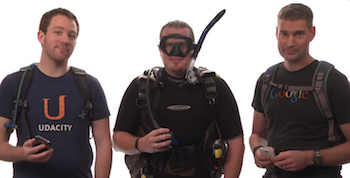
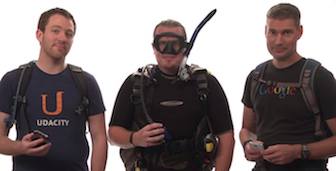
minor optimizations to images.

diff --git a/views/pizza.html b/views/pizza.html
@@ -1,1 +1,144 @@
-<!DOCTYPE HTML><html><head><link rel="stylesheet" href="css/style.css"><link rel="stylesheet" href="css/bootstrap-grid.css"></head><body><div class="container"><div id="header" class="row"><div class="col-md-6"><div class="row"><div class="col-md-12"><h1>Cam's Pizzeria</h1><div class="row"><div id="menu" class="col-md-12"><form action="#randomPizzas"><input type="submit" value="Menu"></form><form action="#ingredients"><input type="submit" value="Our Ingredients"></form><form action="#locations"><input type="submit" value="Locations"></form><form action="#" onsubmit="alert('Thanks for clicking! This button doesn\'t do anything because this is a fake pizzeria :\)')"><input type="submit" value="Contact Us"></form></div></div></div></div></div><div id="movingPizzas1" class="col-md-6"></div></div><div id="callToAction" class="row"><div class="col-md-4"><img src="images/pizzeria.jpg" class="img-responsive"><!-- Image credit to: http://commons.wikimedia.org/wiki/File:HK_TST_night_%E5%98%89%E8%98%AD%E9%81%93_Granville_Road_restaurant_Paisano's_Pizzeria_pizza_Dec-2013.JPG --></div><div class="col-md-8"><div class="row"><div class="col-md-12"><h2>We Have Hundreds of Pizza Recipes!</h2><p>At Cam's Pizzeria, we know you want options. Pepperoni? Boring. Cheese? No way! Sausage? C'mon, let's get creative.</p><p>We have every pizza ingredient imaginable in our kitchen because we know you take choice seriously. Take a look through our menu of hundreds of pizza options and we know that you'll find something you love.</p></div></div><div class="row"><div class="col-md-6 col-md-push-3"><form action="#randomPizzas"><input type="submit" value="Pick a Pizza Now!"></form></div></div></div></div><div id="ingredients" class="row"><div class="col-md-8 col-md-push-2"><div class="row"><div class="col-md-12 centered"><h2>Ingredients!</h2></div></div><div class="row"><div class="col-md-12"><p>We've scoured the planet for the best pizza ingredients. Our crack team of ingredient specialists are on constant lookout for new and interesting pizza ingredients.</p><p>We have classic meats like pepperoni, sausage, and barbecue chicken. But you can find even more fun meats like coppa, kielbasa and soylent green on our menu too.</p><p>Not interested in meat? No problem! We love our veggies too :) We have everything from arugula to zucchini.</p></div></div></div></div><div id="locations" class="row"><div class="col-md-12"><h2 style="text-align: center">Locations!</h2><div class="row"><div class="col-md-6"><h3>Pizza Road</h3><p>1800 Pizza Road<br>San Francisco, CA<br>01010<br>555-555-5555</p></div><div class="col-md-6"><h3>Classic Pie Way</h3><p>999 Classic Pie Way<br>New York, NY<br>00100<br>555-555-5555</p></div></div></div></div><div id="pizzaGenerator" class="row"><div class="col-md-12"><h2 style="text-align: center">Our Pizzas!</h2><div class="row"><div class="col-md-12"><em>What size pizza would you like? Use the slider below to change pizza sizes.</em></div><div id="pizzaSize" class="col-md-6">Medium</div><div class="col-md-12"><input id="sizeSlider" type="range" min="1" max="3" value="2" step="1" onchange="resizePizzas(this.value)"></div></div><div id="randomPizzas" class="row"><div id="pizza0" class="randomPizzaContainer" style="width:33.33%; height: 325px"><div style="width:35%"><img src="images/pizza.png" class="img-responsive"></div><div style="width:65%"><h4>The Udacity Special</h4><ul><li>Turkey</li><li>Tofu</li><li>Cauliflower</li><li>Sun Dried Tomatoes</li><li>Velveeta Cheese</li><li>Red Sauce</li><li>Whole Wheat Crust</li></ul></div></div><div id="pizza1" class="randomPizzaContainer" style="width:33.33%; height: 325px"><div style="width:35%"><img src="images/pizza.png" class="img-responsive"></div><div style="width:65%"><h4>The Cameron Special</h4><ul><li>Chicken</li><li>Hot Sauce</li><li>White Crust</li></ul></div></div></div></div></div><div id="footer" class="col-md-12">Thanks for visiting! &copy; 2014 Udacity</div></div><script type="text/javascript" src="js/main.mini.js"></script></body></html>
+<!DOCTYPE HTML>
+<html>
+<head>
+  <link rel="stylesheet" href="css/style.css">
+  <link rel="stylesheet" href="css/bootstrap-grid.css">
+</head>
+
+<body>
+  <div class="container">
+    <div id="header" class="row">
+      <div class="col-md-6">
+        <div class="row">
+          <div class="col-md-12">
+            <h1>Cam's Pizzeria</h1>
+            <div class="row">
+              <div id="menu" class="col-md-12">
+                <form action="#randomPizzas">
+                  <input type="submit" value="Menu">
+                </form>
+                <form action="#ingredients">
+                  <input type="submit" value="Our Ingredients">
+                </form>
+                <form action="#locations">
+                  <input type="submit" value="Locations">
+                </form>
+                <form action="#" onsubmit="alert('Thanks for clicking! This button doesn\'t do anything because this is a fake pizzeria :\)')">
+                  <input type="submit" value="Contact Us">
+                </form>
+              </div>
+            </div>
+          </div>
+        </div>
+      </div>
+      <div id="movingPizzas1" class="col-md-6">
+      </div>
+    </div>
+    <div id="callToAction" class="row">
+      <div class="col-md-4">
+        <img src="images/pizzeria.jpg" class="img-responsive"> <!-- Image credit to: http://commons.wikimedia.org/wiki/File:HK_TST_night_%E5%98%89%E8%98%AD%E9%81%93_Granville_Road_restaurant_Paisano's_Pizzeria_pizza_Dec-2013.JPG -->
+      </div>
+      <div class="col-md-8">
+        <div class="row">
+          <div class="col-md-12">
+            <h2>We Have Hundreds of Pizza Recipes!</h2>
+            <p>At Cam's Pizzeria, we know you want options. Pepperoni? Boring. Cheese? No way! Sausage? C'mon, let's get creative.</p>
+
+            <p>We have every pizza ingredient imaginable in our kitchen because we know you take choice seriously. Take a look through our menu of hundreds of pizza options and we know that you'll find something you love.</p>
+          </div>
+        </div>
+        <div class="row">
+          <div class="col-md-6 col-md-push-3">
+            <form action="#randomPizzas">
+              <input type="submit" value="Pick a Pizza Now!">
+            </form>
+          </div>
+        </div>
+      </div>
+    </div>
+    <div id="ingredients" class="row">
+      <div class="col-md-8 col-md-push-2">
+        <div class="row">
+          <div class="col-md-12 centered">
+            <h2>Ingredients!</h2>
+          </div>
+        </div>
+        <div class="row">
+          <div class="col-md-12">
+            <p>We've scoured the planet for the best pizza ingredients. Our crack team of ingredient specialists are on constant lookout for new and interesting pizza ingredients.</p>
+
+            <p>We have classic meats like pepperoni, sausage, and barbecue chicken. But you can find even more fun meats like coppa, kielbasa and soylent green on our menu too.</p>
+
+            <p>Not interested in meat? No problem! We love our veggies too :) We have everything from arugula to zucchini.</p>
+          </div>
+        </div>
+      </div>
+    </div>
+    <div id="locations" class="row">
+      <div class="col-md-12">
+        <h2 style="text-align: center">Locations!</h2>
+        <div class="row">
+          <div class="col-md-6">
+            <h3>Pizza Road</h3>
+            <p>1800 Pizza Road<br>San Francisco, CA<br>01010<br>555-555-5555</p>
+          </div>
+          <div class="col-md-6">
+            <h3>Classic Pie Way</h3>
+            <p>999 Classic Pie Way<br>New York, NY<br>00100<br>555-555-5555</p>
+          </div>
+        </div>
+      </div>
+    </div>
+    <div id="pizzaGenerator" class="row">
+      <div class="col-md-12">
+        <h2 style="text-align: center">Our Pizzas!</h2>
+        <div class="row">
+          <div class="col-md-12">
+            <em>What size pizza would you like? Use the slider below to change pizza sizes.</em>
+          </div>
+          <div id="pizzaSize" class="col-md-6">Medium</div>
+          <div class="col-md-12">
+            <input id="sizeSlider" type="range" min="1" max="3" value="2" step="1" onchange="resizePizzas(this.value)"></input>
+          </div>
+        </div>
+        <div id="randomPizzas" class="row">
+          <div id="pizza0" class="randomPizzaContainer" style="width:33.33%; height: 325px;">
+            <div style="width:35%">
+              <img src="images/pizza.png" class="img-responsive">
+            </div>
+            <div style="width:65%">
+              <h4>The Udacity Special</h4>
+              <ul>
+                <li>Turkey</li>
+                <li>Tofu</li>
+                <li>Cauliflower</li>
+                <li>Sun Dried Tomatoes</li>
+                <li>Velveeta Cheese</li>
+                <li>Red Sauce</li>
+                <li>Whole Wheat Crust</li>
+              </ul>
+            </div>
+          </div>
+          <div id="pizza1" class="randomPizzaContainer" style="width:33.33%; height: 325px;">
+            <div style="width:35%">
+              <img src="images/pizza.png" class="img-responsive">
+            </div>
+            <div style="width:65%">
+              <h4>The Cameron Special</h4>
+              <ul>
+                <li>Chicken</li>
+                <li>Hot Sauce</li>
+                <li>White Crust</li>
+              </ul>
+            </div>
+          </div>
+        </div>
+      </div>
+    </div>
+    <div id="footer" class="col-md-12">Thanks for visiting! &copy; 2014 Udacity</div>
+  </div>
+  <script type="text/javascript" src="js/main.js"></script>
+</body>
+
+</html>
+</html>

diff --git a/project-webperf.html b/project-webperf.html
@@ -5,13 +5,15 @@
     <meta name="viewport" content="width=device-width, initial-scale=1">
     <meta name="description" content=" FILL ME IN ">
     <meta name="author" content=" FILL ME IN ">
+    <link href="css/style.css" rel="stylesheet">
+    <link href="css/print.css" rel="stylesheet" media="print">
+    <link href="//fonts.googleapis.com/css?family=Open+Sans:400,700" rel="stylesheet">
+    <script  async src="http://www.google-analytics.com/analytics.js"></script>
+    <script async src="js/perfmatters.js"></script>
     <title>Cameron Pittman: Portfolio</title>
 
     <!-- Hmm, what is the impact of web fonts on speed? Measure it... -->
-    <!-- <link href="//fonts.googleapis.com/css?family=Open+Sans:400,700" rel="stylesheet"> -->
 
-    <link href="css/style.css" rel="stylesheet">
-    <link href="css/print.css" rel="stylesheet" media="print">
 
     <script>
       (function(w,g){w['GoogleAnalyticsObject']=g;
@@ -21,13 +23,12 @@
       ga('create', 'UA-XXXX-Y');
       ga('send', 'pageview');
     </script>
-    <script src="http://www.google-analytics.com/analytics.js"></script>
-    <script async src="js/perfmatters.js"></script>
+
   </head>
 
   <body>
     <header>
-      <a href="/"><img src="img/profilepic.jpg"></a>
+      <a href="/"><img src="img/profilepic.jpg" height="70" width="70"></a>
       <p>Cameron Pittman<br><span>Course Developer</span></p>
     </header>
 
@@ -40,7 +41,7 @@
 
         <p>Thanks to everyone at Udacity and Google who made this class happen! Now for a very true meme and some <strike>lorem</strike> bacon ipsum.</p>
 
-        <img src="img/cam_be_like.jpg">
+        <img src="img/cam_be_like.jpg" height="336" width="343">
 
         <p>Bacon ipsum dolor sit amet et pork belly porchetta excepteur dolor, laborum laboris magna labore dolore in fugiat beef ribs. Fugiat leberkas nulla do kevin dolore. Flank hamburger dolor swine prosciutto sirloin pig jerky sunt consequat pariatur. Mollit meatloaf nostrud laboris shoulder excepteur velit officia meatball nisi turkey. Nulla jowl spare ribs, et drumstick magna frankfurter.</p>
 

diff --git a/views/js/main.js b/views/js/main.js
@@ -424,7 +424,7 @@ var resizePizzas = function(size) {
    // Returns the size difference to change a pizza element from one size to another. Called by changePizzaSlices(size).
   function determineDx (elem, size) {
     var oldWidth = elem.offsetWidth;
-    var windowWidth = document.getElementById("#randomPizzas").offsetWidth;
+    var windowWidth = document.getElementById("randomPizzas").offsetWidth;
     var oldSize = oldWidth / windowWidth;
 
     // Changes the slider value to a percent width
@@ -449,10 +449,13 @@ var resizePizzas = function(size) {
 
   // Iterates through pizza elements on the page and changes their widths
   function changePizzaSizes(size) {
-    for (var i = 0; i < document.getElementsByClassName("randomPizzaContainer").length; i++) {
-      var dx = determineDx(document.getElementsByClassName("randomPizzaContainer")[i], size);
-      var newwidth = (document.getElementsByClassName("randomPizzaContainer")[i].offsetWidth + dx) + 'px';
-      document.getElementsByClassName("randomPizzaContainer")[i].style.width = newwidth;
+      var randomPizzas = document.getElementsByClassName("randomPizzaContainer");
+      var dx = determineDx(randomPizzas[i]), size;
+      var newwidth = (randomPizzas[i].offsetWidth + dx) + 'px';
+    for (var i = 0; i < randomPizzas.length; i++) {
+
+       randomPizzas[i].style.width = newwidth;
+
     }
   }
 
@@ -506,12 +509,12 @@ function updatePositions() {
 
   //Put scrollTop and phase variables seperatly to stop it from
   // iterating over each other.
-  var scroller = document.body.scrollTop
+  var pizzaScroll = document.body.scrollTop
   var phase = [];
 
   for (var i = 0; i < items.length; i++) {
 
-  phase = Math.sin((scroller / 1250) + (i % 5));
+  phase = Math.sin((pizzaScroll / 1250) + (i % 5));
   items[i].style.left = items[i].basicLeft + 100 * phase + 'px';
 
   }

diff --git a/project-2048.html b/project-2048.html
@@ -7,13 +7,14 @@
     <meta name="author" content=" FILL ME IN ">
     <link href="css/style.css" rel="stylesheet">
     <link href="css/print.css" rel="stylesheet" media="print">
+    <link href="//fonts.googleapis.com/css?family=Open+Sans:400,700" rel="stylesheet">
     <script src="//www.google-analytics.com/analytics.js"></script>
     <script src="js/perfmatters.js"></script>
 
     <title>Cameron Pittman: Portfolio</title>
 
     <!-- Hmm, what is the impact of web fonts on speed? Measure it... -->
-    <!-- <link href="//fonts.googleapis.com/css?family=Open+Sans:400,700" rel="stylesheet"> -->
+
 
 
     <script>
@@ -29,7 +30,7 @@
 
   <body>
     <header>
-      <a href="/"><img src="img/profilepic.jpg"></a>
+      <a href="/"><img src="img/profilepic.jpg" height="70" width="70"></a>
       <p>Cameron Pittman<br><span>Course Developer</span></p>
     </header>
 
@@ -40,7 +41,7 @@
 
       <div class="content">
 
-        <img class="img-responsive" src="img/2048.png">
+        <img class="img-responsive" src="img/2048.png" height="495" width="336">
 
         <p>Bacon ipsum dolor sit amet et pork belly porchetta excepteur dolor, laborum laboris magna labore dolore in fugiat beef ribs. Fugiat leberkas nulla do kevin dolore. Flank hamburger dolor swine prosciutto sirloin pig jerky sunt consequat pariatur. Mollit meatloaf nostrud laboris shoulder excepteur velit officia meatball nisi turkey. Nulla jowl spare ribs, et drumstick magna frankfurter.</p>
 

diff --git a/project-mobile.html b/project-mobile.html
@@ -7,12 +7,13 @@
     <meta name="author" content=" FILL ME IN " />
     <link href="css/style.css" rel="stylesheet">
     <link href="css/print.css" rel="stylesheet" media="print">
+    <link href="//fonts.googleapis.com/css?family=Open+Sans:400,700" rel="stylesheet">
     <script  async src="http://www.google-analytics.com/analytics.js"></script>
-    <script async src="js/perfmatters.js"></script>
+    <script  async src="js/perfmatters.js"></script>
     <title>Cameron Pittman: Portfolio</title>
 
     <!-- Hmm, what is the impact of web fonts on speed? Measure it... -->
-    <!-- <link href="//fonts.googleapis.com/css?family=Open+Sans:400,700" rel="stylesheet"> -->
+
 
 
 
@@ -29,7 +30,7 @@
 
   <body>
     <header>
-      <a href="/"><img src="img/profilepic.jpg"></a>
+      <a href="/"><img src="img/profilepic.jpg" height="70" width="70"></a>
       <p>Cameron Pittman<br><span>Course Developer</span></p>
     </header>
 
